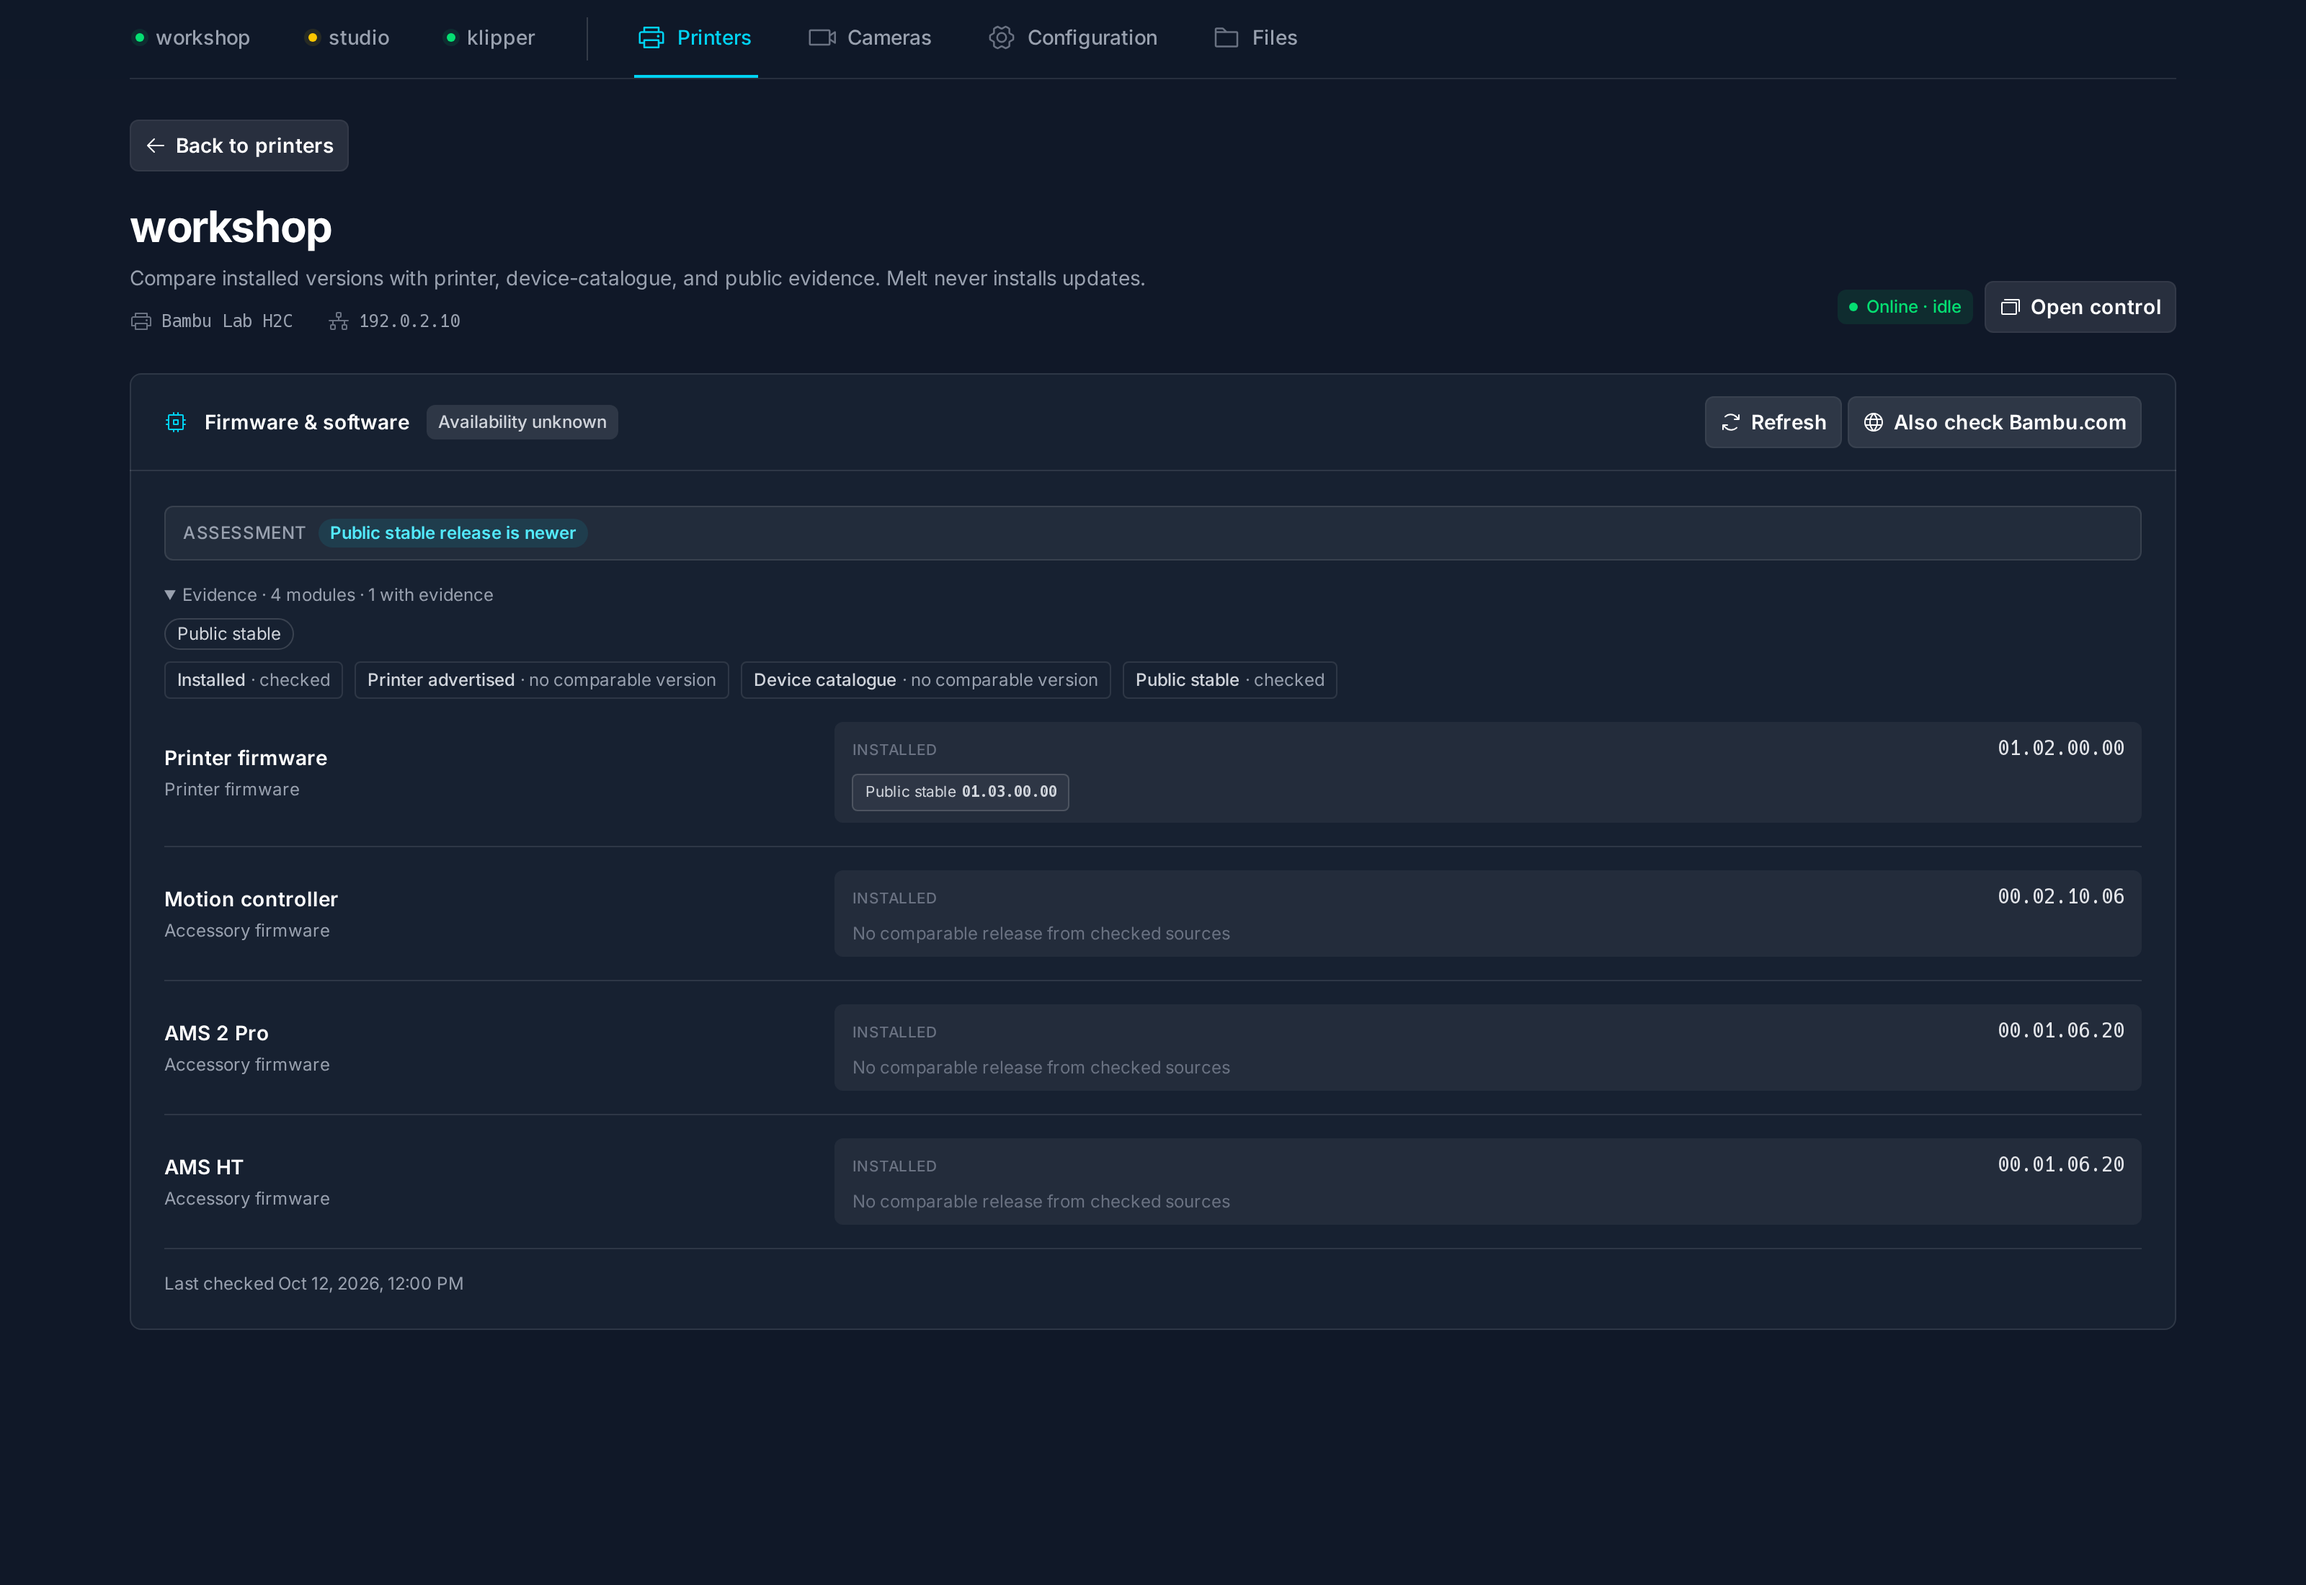
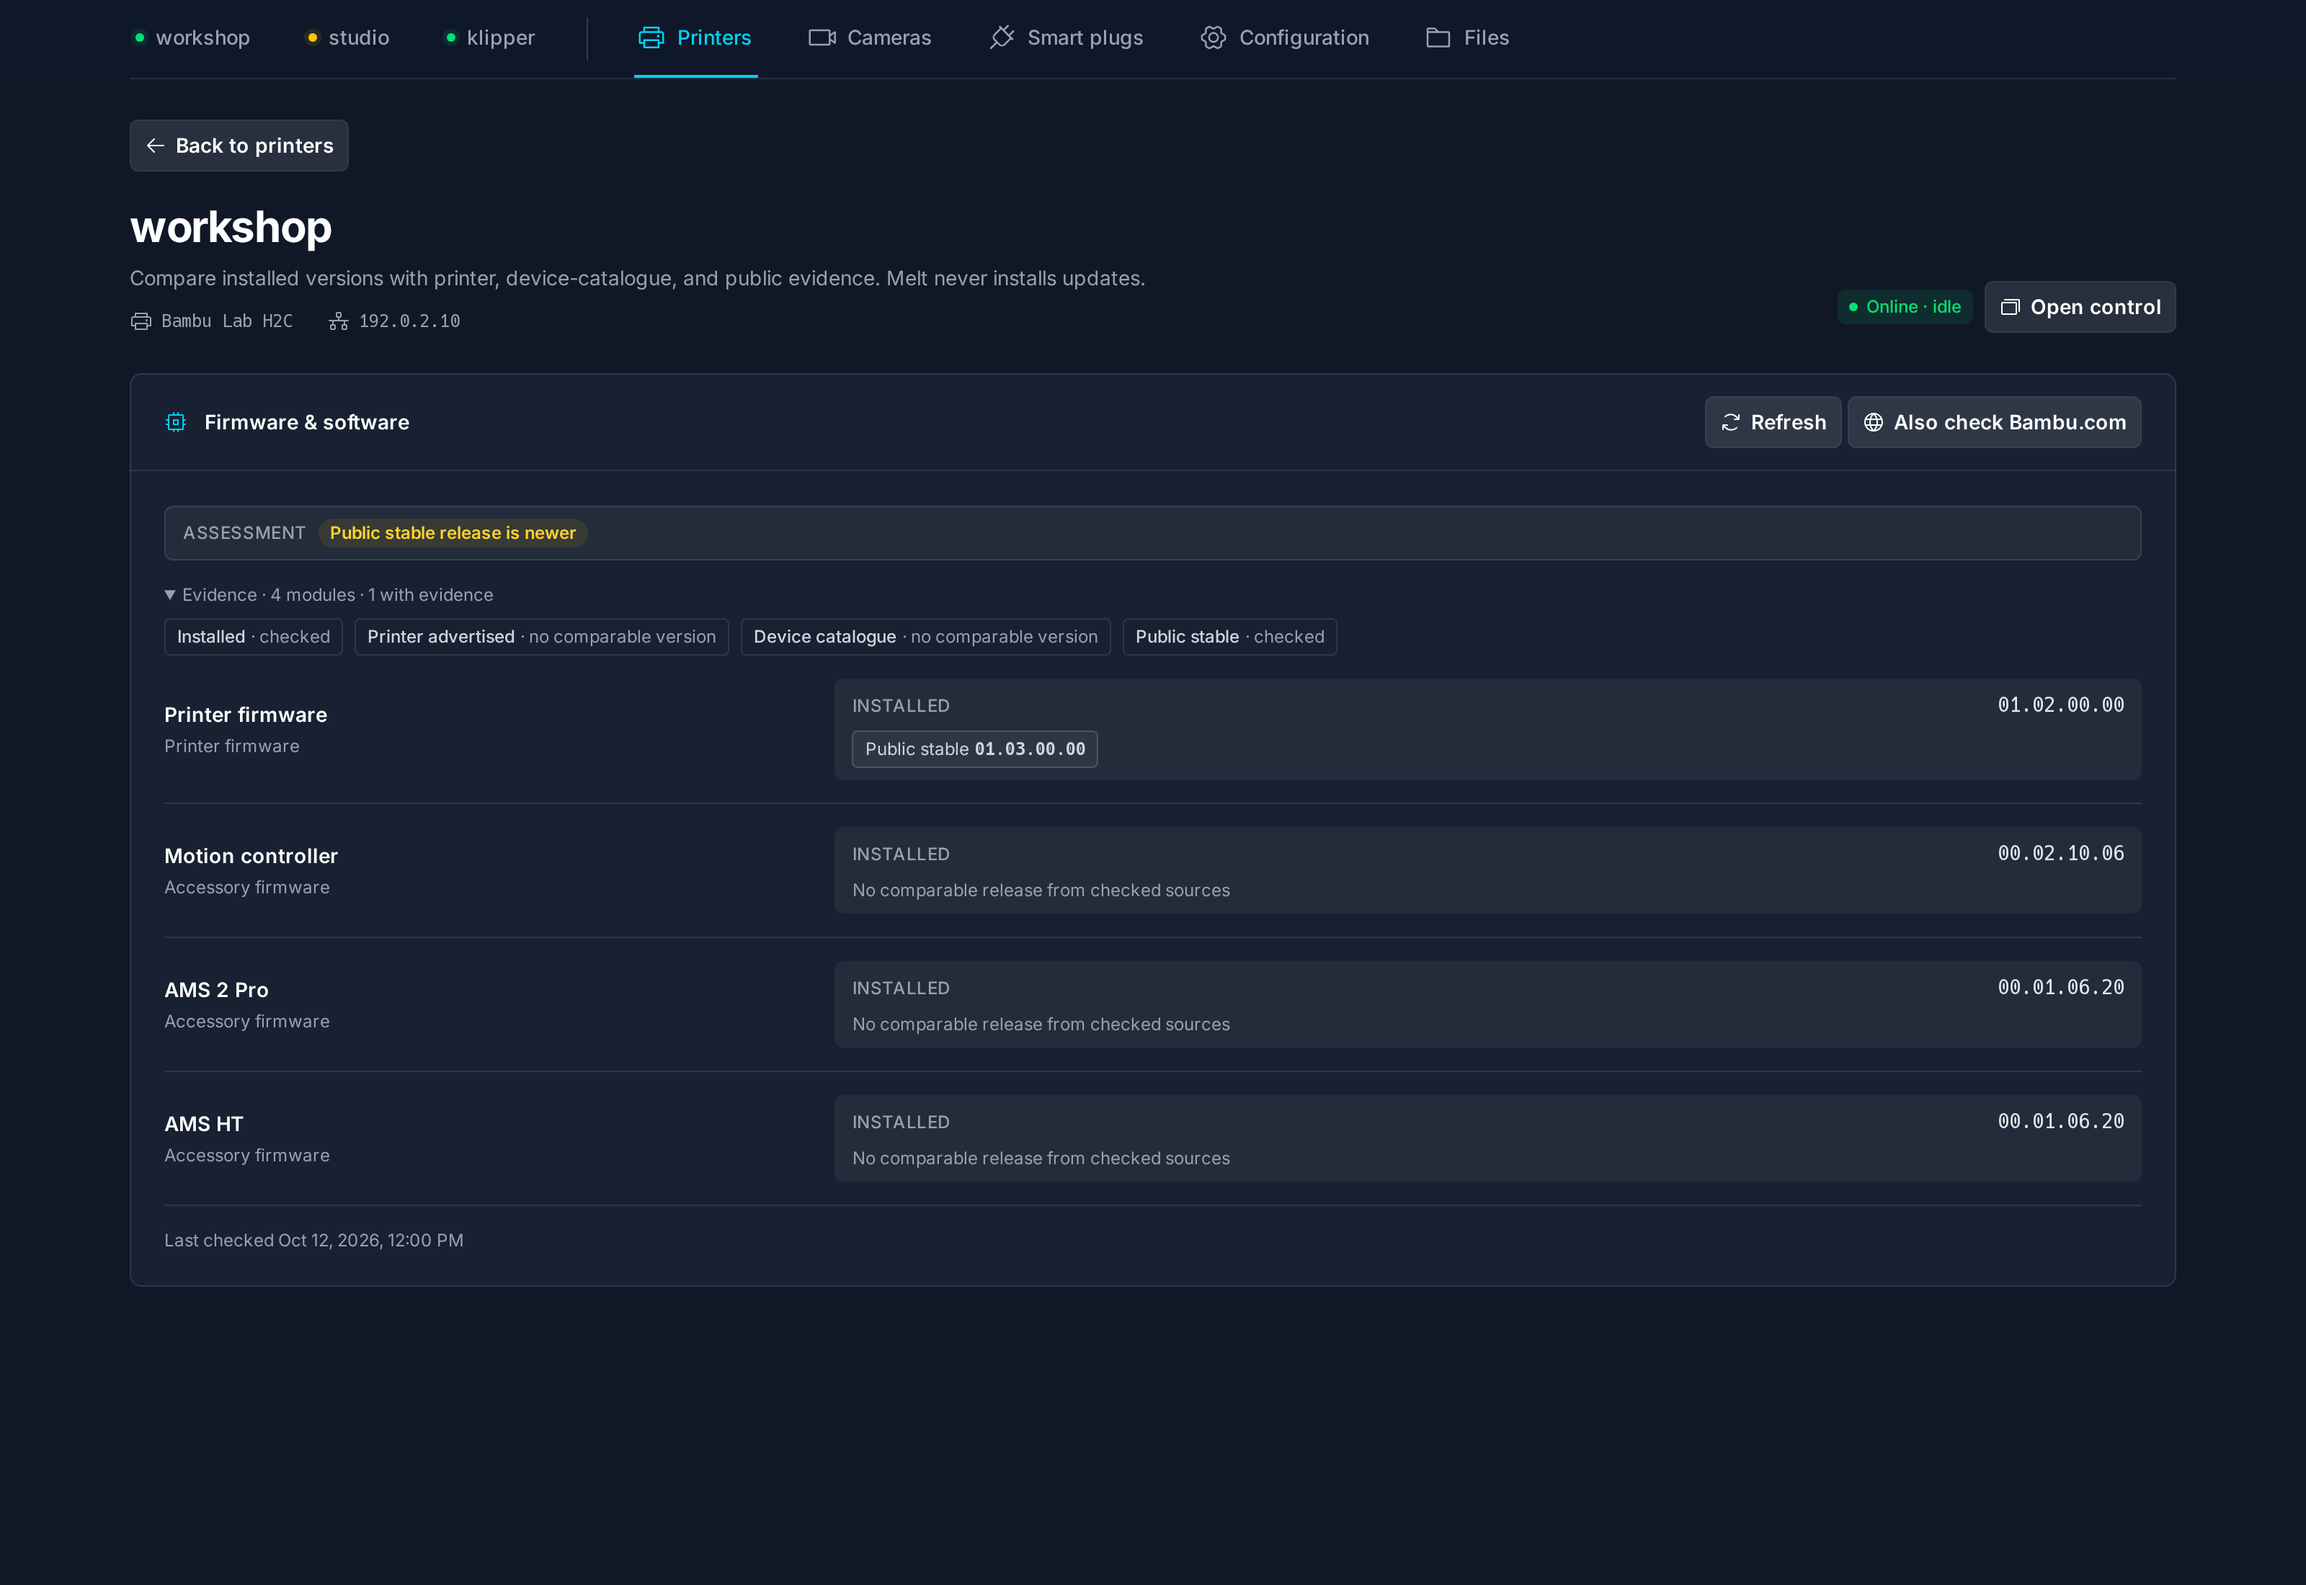
Update screenshots

diff --git a/scripts/capture_screenshots.py b/scripts/capture_screenshots.py
@@ -183,6 +183,7 @@ BRIDGE = r"""
   const fixture = __STATE__;
   const base = __BASE__;
   const commands = window.__SCREENSHOT_COMMANDS__ = [];
+  const rejected = window.__SCREENSHOT_REJECTED__ = [];
   const callbacks = new Map(); let next = 1;
   const stamp = new Date(fixture.capturedAt).getTime();
   const RealDate = Date;
@@ -209,8 +210,8 @@ BRIDGE = r"""
         case 'registered_drivers': return fixture.drivers;
         case 'get_preferences': return fixture.preferences;
         case 'camera_list': return fixture.cameras;
-        case 'plug_list': return [];
-        case 'plug_observations': return {};
+        case 'plug_list': return fixture.plugs;
+        case 'plug_observations': return fixture.plugObservations;
         case 'printer_capabilities': return {capabilities: fixture.capabilities};
         case 'cached_monitoring': case 'monitored_printers': return fixture.monitoring;
         case 'printer_status': return fixture.monitoring.find(p => p.name === name);
@@ -233,7 +234,7 @@ BRIDGE = r"""
           fixture.cameras.forEach(c => {c.selectedBy = c.selectedBy.filter(p => p !== args.printer); if(c.name === args.camera) c.selectedBy.push(args.printer);});
           return {printer: args.printer, camera: args.camera};
         }
-        default: throw new Error('Screenshot fixture refuses unsupported IPC: ' + cmd);
+        default: rejected.push(cmd); throw new Error('Screenshot fixture refuses unsupported IPC: ' + cmd);
       }
     }
   };
@@ -340,14 +341,26 @@ def capture(args):
         ("cameras.png", "cameras", False, "cameras"),
         ("camera-settings.png", "cameras", False, "camera-settings"),
         ("file-preview.png", "files", False, "preview"),
+        ("printer-control-offline.png", "control", False, "offline"),
+        ("smart-plugs.png", "plugs", False, "plugs"),
+        ("smart-plug-settings.png", "plugs", False, "plug-settings"),
+        ("smart-plug-power-off.png", "plugs", False, "plug-off"),
     ]
+    app_types = (ROOT / "ui/src/app-types.ts").read_text()
+    views = set(re.findall(r"'(\w+)'", re.search(r"export type View = (.+)", app_types).group(1)))
+    uncovered = views - {view for _, view, _, _ in definitions}
+    if uncovered:
+        raise SystemExit(f"Add screenshot scenarios for views: {', '.join(sorted(uncovered))}")
     try:
         with sync_playwright() as playwright:
             browser = playwright.chromium.launch(headless=True)
             for filename, view, printing, kind in definitions:
                 server.printing = printing
                 context = browser.new_context(viewport={"width": WIDTH, "height": HEIGHT}, device_scale_factor=SCALE, locale="en-US", timezone_id="UTC", color_scheme="dark", reduced_motion="reduce")
-                script = BRIDGE.replace("__STATE__", json.dumps(screenshot_state(state, printing))).replace("__BASE__", json.dumps(base)).replace("__VIEW__", json.dumps(view)).replace("__CODEC__", json.dumps(media[printing][2]))
+                scenario = screenshot_state(state, printing)
+                if kind == "offline":
+                    scenario["monitoring"][0] = {"name": "workshop", "driver": "bambu-lan", "connectionState": "offline", "stale": True}
+                script = BRIDGE.replace("__STATE__", json.dumps(scenario)).replace("__BASE__", json.dumps(base)).replace("__VIEW__", json.dumps(view)).replace("__CODEC__", json.dumps(media[printing][2]))
                 context.add_init_script(script)
                 page = context.new_page()
                 page.on("pageerror", lambda error: problems.append(str(error)))
@@ -376,6 +389,25 @@ def capture(args):
                     page.get_by_role("button", name="Camera actions", exact=True).first.click()
                     page.get_by_role("menuitem", name="Edit camera", exact=True).click()
                     page.locator("#camera-form").wait_for()
+                if kind in ("idle", "cameras"):
+                    expect(page.get_by_role("button", name="Turn off bench-power", exact=True)).to_be_visible()
+                if kind == "offline":
+                    page.get_by_role("heading", name="Printer unavailable", exact=True).wait_for()
+                    expect(page.get_by_role("button", name="Turn off bench-power", exact=True)).to_be_visible()
+                if kind in ("plugs", "plug-settings", "plug-off"):
+                    expect(page.get_by_role("button", name="Smart plug actions", exact=True)).to_have_count(len(state["plugs"]))
+                    for text in ("215 W", "0 W", "Sign-in failed", "Last known: Relay on (stale) · Unreachable · Observed 11:55 AM"):
+                        expect(page.get_by_text(text, exact=True)).to_be_visible()
+                if kind == "plug-settings":
+                    page.get_by_role("button", name="Smart plug actions", exact=True).first.click()
+                    page.get_by_role("menuitem", name="Edit smart plug", exact=True).click()
+                    page.locator("#plug-form").wait_for()
+                    expect(page.locator("#plug-password")).to_have_value("")
+                if kind == "plug-off":
+                    page.get_by_role("button", name="Turn off bench-power", exact=True).click()
+                    dialog = page.get_by_role("alertdialog")
+                    expect(dialog).to_contain_text("Printers: workshop (drying), studio (printing). Cameras: workbench.")
+                    assert page.evaluate("!window.__SCREENSHOT_COMMANDS__.includes('plug_set_power')")
                 if kind in ("library", "preview"):
                     page.get_by_role("button", name="Preview cable-organizer.stl", exact=True).wait_for()
                     page.wait_for_function("Array.from(document.querySelectorAll('[aria-busy]')).every(e => e.getAttribute('aria-busy') !== 'true')")
@@ -385,8 +417,15 @@ def capture(args):
                     page.wait_for_function("document.querySelector('[role=dialog] img')?.complete && document.querySelector('[role=dialog] img')?.naturalWidth > 0")
                 page.evaluate("document.fonts.ready")
                 page.mouse.move(1590, 1090)
+                problems.extend(f"Unsupported IPC in {filename}: {cmd}" for cmd in page.evaluate("window.__SCREENSHOT_REJECTED__"))
                 if page.get_by_role("alert").count():
                     problems.extend(page.get_by_role("alert").all_text_contents())
+                if kind in ("camera-settings", "plug-settings", "plug-off", "preview"):
+                    # Modals fade/slide in; capture only once settled.
+                    page.wait_for_function("""() => Array.from(document.querySelectorAll('[id^="headlessui-dialog-panel-"]')).some(e => {
+                        const r = e.getBoundingClientRect();
+                        return r.width > 0 && r.right <= innerWidth + .5 && getComputedStyle(e).opacity === '1';
+                    })""")
                 page.screenshot(path=str(output / filename), full_page=True, animations="disabled")
                 with Image.open(output / filename) as png:
                     size = list(png.size)

diff --git a/docs/screenshots.md b/docs/screenshots.md
@@ -1,11 +1,11 @@
 # Screenshots
 
-Last-updated: 2026-10-23
+Last-updated: 2026-10-24
 
-Nine fresh captures of the current production Vue interface, including the
+Thirteen captures of the current production Vue interface, including the
 **Printers** label, **Cameras** view, **Camera feed** selector, playback badges,
-camera settings and large file preview. The six original image paths are
-replaced with new captures; three additional views cover current features.
+camera settings, large file preview and **Smart plugs** (list, settings, power-off
+confirmation and the offline printer view with plug controls).
 
 These screenshots use sanitized sample printer/camera status, filenames,
 documentation-network addresses and illustrated media. The camera scene is
@@ -93,6 +93,33 @@ The sample contains no camera password or real credentials.
 
 ![Edit camera side panel with sample connection settings and linked printers](../screenshots/camera-settings.png)
 
+## Printer control — offline
+
+An unreachable printer keeps its smart plug controls so power can be restored.
+
+![Offline printer view with the attached smart plug controls](../screenshots/printer-control-offline.png)
+
+## Smart plugs
+
+Sample plugs cover relay on with power, relay off, unreachable (last known
+state shown as stale), sign-in failed and unattached plugs.
+
+![Smart plugs view with four sample plugs in different states](../screenshots/smart-plugs.png)
+
+## Smart plug settings
+
+Editing keeps the password blank (the saved one is retained) and shows the
+attached printers and cameras.
+
+![Edit smart plug side panel](../screenshots/smart-plug-settings.png)
+
+## Smart plug power-off confirmation
+
+Turning off lists the printers and cameras that lose power and their activity.
+The capture never confirms; it asserts no switch command was sent.
+
+![Turn off confirmation naming affected printers and cameras](../screenshots/smart-plug-power-off.png)
+
 ## Reproducing the captures
 
 Install the UI dependencies as described in [development](development.md).
@@ -122,6 +149,9 @@ To review files before replacing the repository images:
 make ui-build
 python3 scripts/capture_screenshots.py --output /tmp/melt-screenshots
 ```
+
+The script fails if any `View` in `ui/src/app-types.ts` has no scenario, or
+if the UI calls an IPC command the fixture bridge does not implement.
 
 Visually inspect every view, check the recorded playback, and retain the
 manifest alongside the images. Rebuild and recapture whenever UI source or

diff --git a/fixtures/screenshots/README.md b/fixtures/screenshots/README.md
@@ -1,12 +1,15 @@
 # Screenshot samples
 
-Last-updated: 2026-10-12
+Last-updated: 2026-10-24
 
 `state.json` contains synthetic, sanitized data for the current desktop UI's
 documentation captures. Printer/camera names, serial labels, paths, module
 versions and job states are examples. Hosts use `192.0.2.0/24`; there are no
 credentials or raw hardware captures. Tray slots follow the core's zero-based
 contract and are displayed as slots 1–4 by the frontend.
+
+The `plugs` and `plugObservations` entries are sample smart plugs (hosts
+`192.0.2.40–43`) covering on, off, unreachable/stale and auth-failed states.
 
 [`scripts/capture_screenshots.py`](../../scripts/capture_screenshots.py) renders
 the built production frontend with this isolated IPC bridge. It derives

diff --git a/AGENTS.md b/AGENTS.md
@@ -15,3 +15,11 @@ Refresh the after captures whenever subsequent edits change the visible UI.
 If capture or upload is blocked, report the blocker and leave the PR in draft
 until the images are attached; do not claim the visual evidence is complete.
 Changes with no visible UI effect do not require screenshots.
+
+## Keep screenshots current
+
+When a new screen is added or existing UI changes, update
+`scripts/capture_screenshots.py` (scenarios, bridge IPC) and
+`fixtures/screenshots/state.json`, run `make screenshots`, and commit the
+refreshed `screenshots/*.png` and `capture-manifest.json`. Keep
+`docs/screenshots.md` in sync. The script fails if a view has no scenario.
